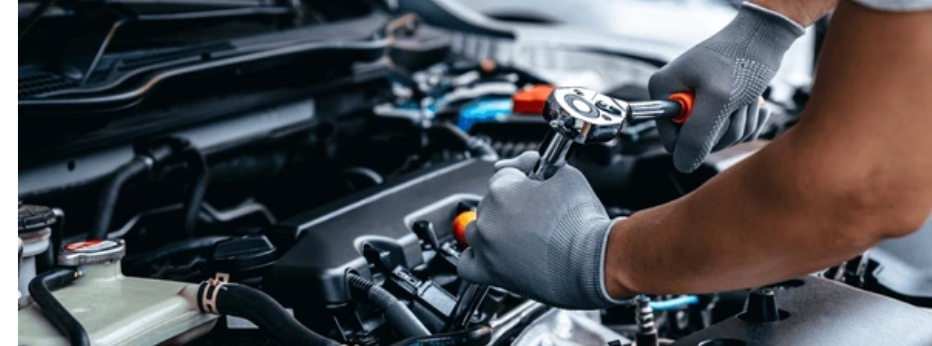
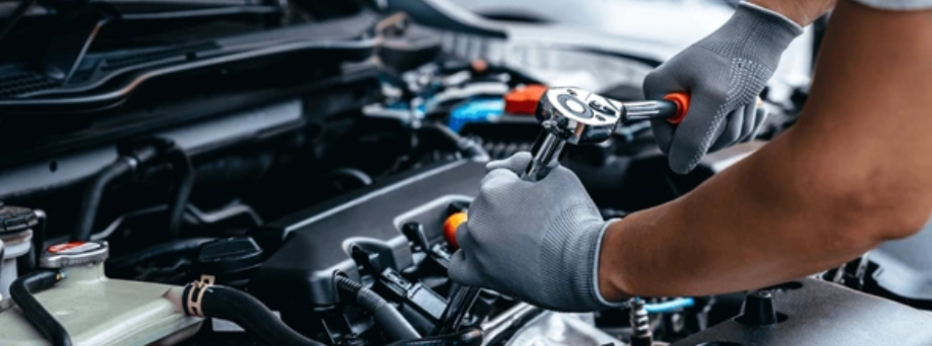
fix previous commit

diff --git a/vite.config.js b/vite.config.js
@@ -40,10 +40,8 @@ export default defineConfig({
                 "resources/img/top/vmaintenance.png",
                 "resources/img/top/estimate.png",
                 "resources/img/top/top.png",
-                "resources/img/top/top2.png",
                 "resources/img/top/scroll.png",
                 "resources/img/top/inazawa.jpg",
-                "resources/img/top/nagoyakita.jpg",
             ],
             refresh: true,
         }),

diff --git a/resources/views/layouts/app.blade.php b/resources/views/layouts/app.blade.php
@@ -66,7 +66,7 @@
                     </div>
                 </div>
                 <div class="image-content w-3/5">
-                    <img src="{{ Vite::asset('resources/img/top/top2.png') }}" alt="タイトル" class="top-image">
+                    <img src="{{ Vite::asset('resources/img/top/top.png') }}" alt="タイトル" class="top-image">
                 </div>
             </section>
         @endif
